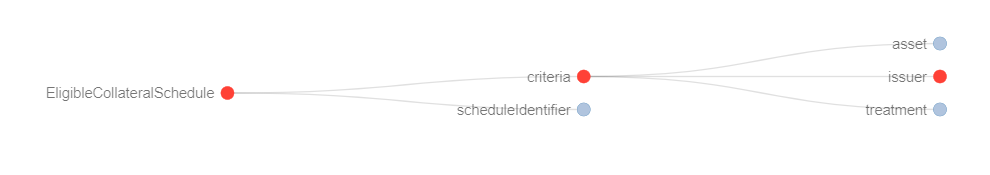
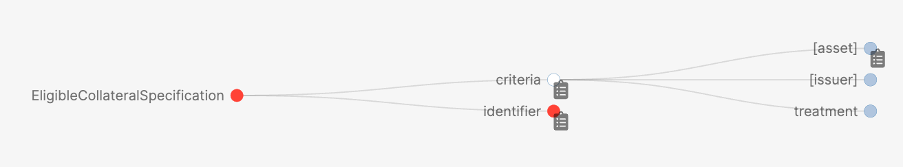
task-6235: Fix Graphical image on the collateral documentation

diff --git a/docs/eligible-collateral-representation.md b/docs/eligible-collateral-representation.md
@@ -136,8 +136,7 @@ similar types.
 
 An illustrative example for understanding the principle is shown here:
 
-![image](/img/collateral-asset-identifier-tree.png){width="6.85159in"
-height="3.24844in"}
+![image](/img/collateral-asset-identifier-tree.png)
 
 The CDM method for representing eligible collateral will be capable of
 reference to, and inclusion in, common master and respective collateral
@@ -161,8 +160,7 @@ or CUSIP or a standard taxonomy source.
 The foundational data structure from the highest level allows firstly to
 represent eligibility through specification of *criteria*:
 
-![image](/img/cdm-graphical-ecs.png){width="6.26806in"
-height="1.1083in"}
+![image](/img/cdm-graphical-ecs.png)
 
 The Asset type is used to specify criteria related to the nature of the
 asset, such as its type (cash, debt, equity, or other), its country of
